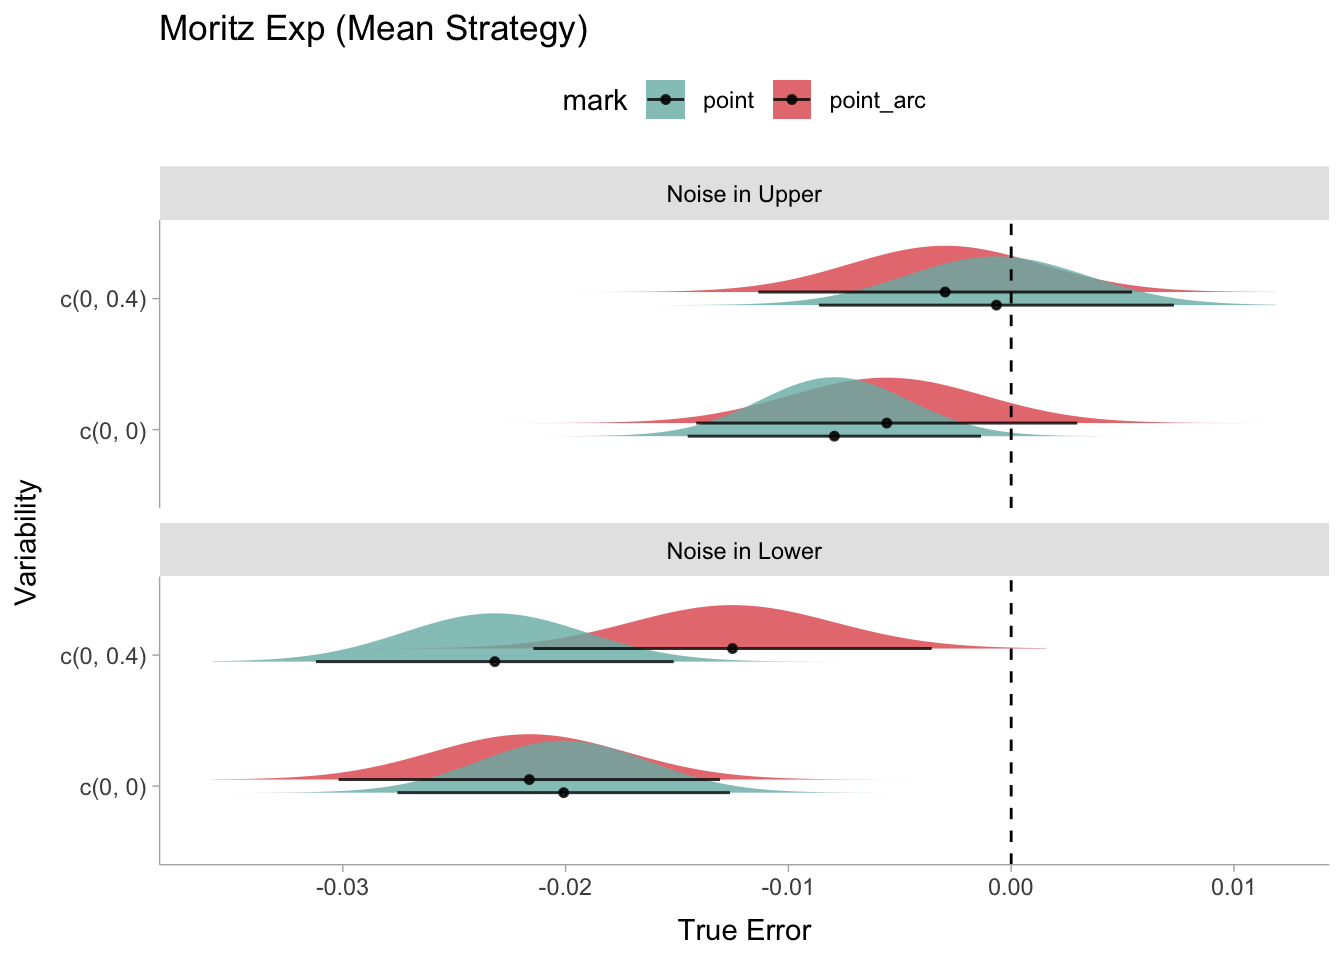
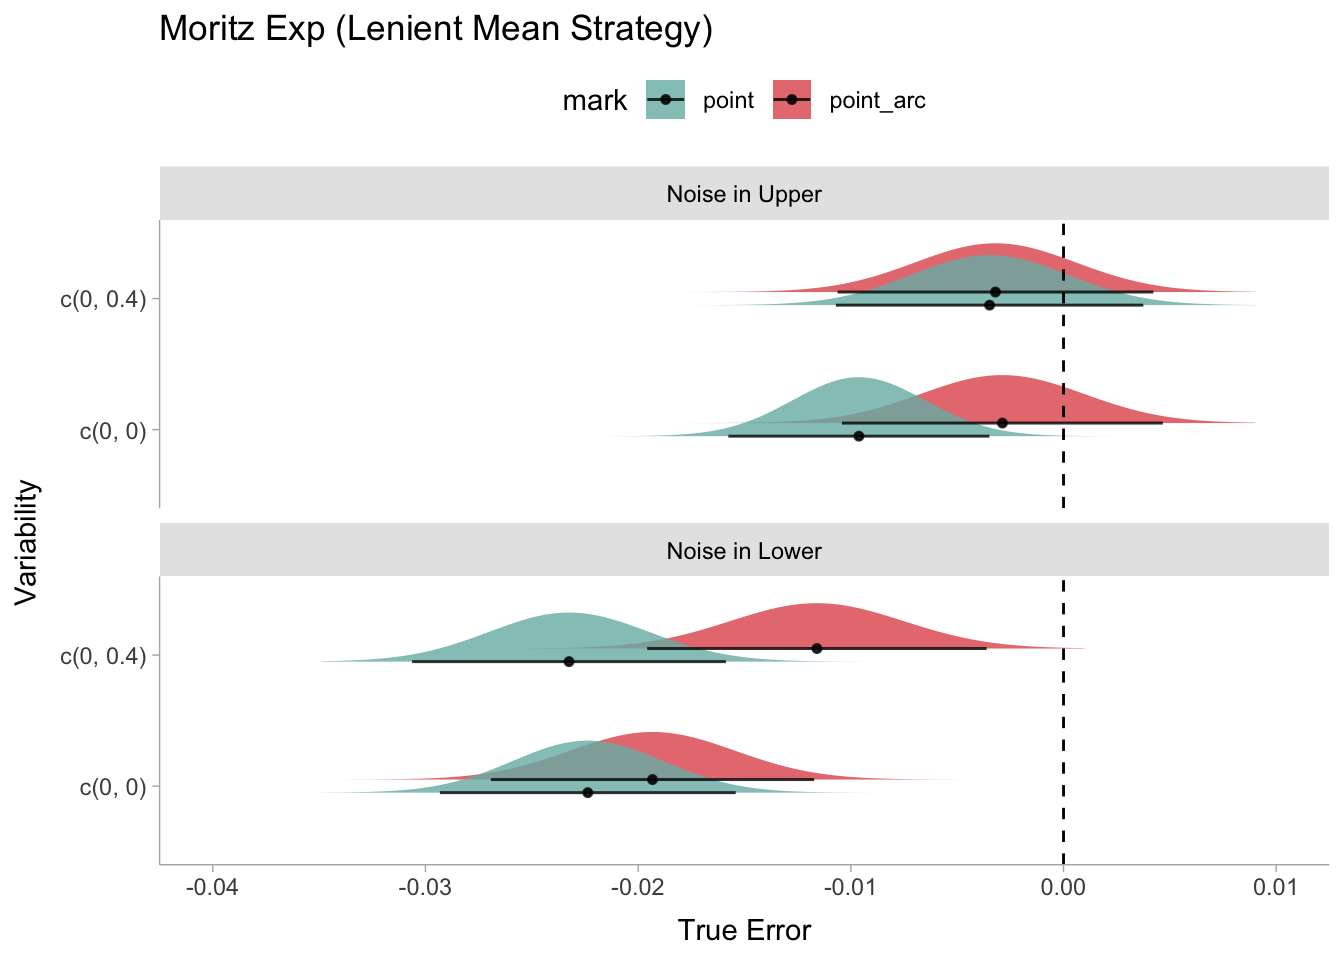
this new weight looks kind of whack but also definitely more variance compared to the mean strategy ...

diff --git a/output/analysis/moritz/reanalyze.html b/output/analysis/moritz/reanalyze.html
@@ -580,11 +580,23 @@ Note
 <span id="cb19-7"><a href="#cb19-7" aria-hidden="true" tabindex="-1"></a>strategy_df <span class="sc">%&gt;%</span></span>
 <span id="cb19-8"><a href="#cb19-8" aria-hidden="true" tabindex="-1"></a>  <span class="fu">filter</span>(r1_number_of_points <span class="sc">==</span> r2_number_of_points) <span class="sc">%&gt;%</span></span>
 <span id="cb19-9"><a href="#cb19-9" aria-hidden="true" tabindex="-1"></a>  <span class="fu">filter</span>(r1_number_of_points <span class="sc">==</span> <span class="cn">TRUE</span>) <span class="sc">%&gt;%</span></span>
-<span id="cb19-10"><a href="#cb19-10" aria-hidden="true" tabindex="-1"></a>  <span class="fu">pull</span>(ResponseId) <span class="ot">-&gt;</span> equal_points_id</span></code></pre></div><button title="Copy to Clipboard" class="code-copy-button"><i class="bi"></i></button></div>
+<span id="cb19-10"><a href="#cb19-10" aria-hidden="true" tabindex="-1"></a>  <span class="fu">pull</span>(ResponseId) <span class="ot">-&gt;</span> equal_points_id</span>
+<span id="cb19-11"><a href="#cb19-11" aria-hidden="true" tabindex="-1"></a></span>
+<span id="cb19-12"><a href="#cb19-12" aria-hidden="true" tabindex="-1"></a><span class="co"># we also want to calculate the case when at least one reviewer thinks that it could be the case, regardless of whether they agree or not</span></span>
+<span id="cb19-13"><a href="#cb19-13" aria-hidden="true" tabindex="-1"></a><span class="co"># 120 participants</span></span>
+<span id="cb19-14"><a href="#cb19-14" aria-hidden="true" tabindex="-1"></a>strategy_df <span class="sc">%&gt;%</span></span>
+<span id="cb19-15"><a href="#cb19-15" aria-hidden="true" tabindex="-1"></a>  <span class="fu">filter</span>(r1_mental_averaging <span class="sc">==</span> <span class="cn">TRUE</span> <span class="sc">|</span> r2_mental_averaging <span class="sc">==</span> <span class="cn">TRUE</span>) <span class="sc">%&gt;%</span></span>
+<span id="cb19-16"><a href="#cb19-16" aria-hidden="true" tabindex="-1"></a>  <span class="fu">pull</span>(ResponseId) <span class="ot">-&gt;</span> lenient_mental_average_id</span>
+<span id="cb19-17"><a href="#cb19-17" aria-hidden="true" tabindex="-1"></a></span>
+<span id="cb19-18"><a href="#cb19-18" aria-hidden="true" tabindex="-1"></a><span class="co"># 53 participants</span></span>
+<span id="cb19-19"><a href="#cb19-19" aria-hidden="true" tabindex="-1"></a>strategy_df <span class="sc">%&gt;%</span></span>
+<span id="cb19-20"><a href="#cb19-20" aria-hidden="true" tabindex="-1"></a>  <span class="fu">filter</span>(r1_number_of_points <span class="sc">==</span> <span class="cn">TRUE</span> <span class="sc">|</span> r2_number_of_points <span class="sc">==</span> <span class="cn">TRUE</span>) <span class="sc">%&gt;%</span></span>
+<span id="cb19-21"><a href="#cb19-21" aria-hidden="true" tabindex="-1"></a>  <span class="fu">pull</span>(ResponseId) <span class="ot">-&gt;</span> lenient_equal_points_id</span></code></pre></div><button title="Copy to Clipboard" class="code-copy-button"><i class="bi"></i></button></div>
 </div>
 <p>I should note that there is also some overlap between those who perform mental averaging and median:</p>
 <div class="cell">
-<div class="code-copy-outer-scaffold"><div class="sourceCode cell-code" id="cb20"><pre class="sourceCode r code-with-copy"><code class="sourceCode r"><span id="cb20-1"><a href="#cb20-1" aria-hidden="true" tabindex="-1"></a><span class="fu">intersect</span>(mental_average_id, equal_points_id)</span></code></pre></div><button title="Copy to Clipboard" class="code-copy-button"><i class="bi"></i></button></div>
+<div class="code-copy-outer-scaffold"><div class="sourceCode cell-code" id="cb20"><pre class="sourceCode r code-with-copy"><code class="sourceCode r"><span id="cb20-1"><a href="#cb20-1" aria-hidden="true" tabindex="-1"></a>i <span class="ot">&lt;-</span> <span class="fu">intersect</span>(mental_average_id, equal_points_id)</span>
+<span id="cb20-2"><a href="#cb20-2" aria-hidden="true" tabindex="-1"></a>i</span></code></pre></div><button title="Copy to Clipboard" class="code-copy-button"><i class="bi"></i></button></div>
 <div class="cell-output cell-output-stdout">
 <pre><code> [1] "30IQTZXKAL63FNW28RHMQ67SI5RX0S" "3180JW2OT5C1FADEOT8XGSV4OFV5J5"
  [3] "31LVTDXBL8AWFNZCOLXDZ8DSM2ZLR9" "32AT8R96GM9BZSMJCOPJG5E7JTVSUC"
@@ -603,11 +615,12 @@ Note
 </section>
 <section id="what-does-the-error-pattern-look-like-for-people-who-use-mean-strategy" class="level2">
 <h2 class="anchored" data-anchor-id="what-does-the-error-pattern-look-like-for-people-who-use-mean-strategy">What does the error pattern look like for people who use <em>MEAN</em> strategy?</h2>
+<p>First we use the lenient way, that is, as long as one rater classifis this as mean, then this counts as mean:</p>
 <div class="cell">
 <details class="code-fold">
 <summary>Code</summary>
 <div class="code-copy-outer-scaffold"><div class="sourceCode cell-code" id="cb22"><pre class="sourceCode r code-with-copy"><code class="sourceCode r"><span id="cb22-1"><a href="#cb22-1" aria-hidden="true" tabindex="-1"></a>error_df <span class="sc">%&gt;%</span></span>
-<span id="cb22-2"><a href="#cb22-2" aria-hidden="true" tabindex="-1"></a>  <span class="fu">filter</span>(assignmentid <span class="sc">%in%</span> mental_average_id) <span class="sc">%&gt;%</span></span>
+<span id="cb22-2"><a href="#cb22-2" aria-hidden="true" tabindex="-1"></a>  <span class="fu">filter</span>(assignmentid <span class="sc">%in%</span> lenient_mental_average_id) <span class="sc">%&gt;%</span></span>
 <span id="cb22-3"><a href="#cb22-3" aria-hidden="true" tabindex="-1"></a>  <span class="fu">summarySEwithin</span>(</span>
 <span id="cb22-4"><a href="#cb22-4" aria-hidden="true" tabindex="-1"></a>    .,</span>
 <span id="cb22-5"><a href="#cb22-5" aria-hidden="true" tabindex="-1"></a>    <span class="at">measurevar =</span> <span class="st">"error_mean"</span>,</span>
@@ -622,7 +635,8 @@ Note
 <span id="cb22-14"><a href="#cb22-14" aria-hidden="true" tabindex="-1"></a>  <span class="fu">plot_results</span>(., error_mean) <span class="sc">+</span></span>
 <span id="cb22-15"><a href="#cb22-15" aria-hidden="true" tabindex="-1"></a>  <span class="fu">geom_vline</span>(<span class="at">xintercept =</span> <span class="dv">0</span>, <span class="at">linetype =</span> <span class="st">"dashed"</span>) <span class="sc">+</span></span>
 <span id="cb22-16"><a href="#cb22-16" aria-hidden="true" tabindex="-1"></a>  <span class="fu">facet_wrap</span>(<span class="sc">~</span>flip_lab, <span class="at">ncol =</span> <span class="dv">1</span>) <span class="sc">+</span></span>
-<span id="cb22-17"><a href="#cb22-17" aria-hidden="true" tabindex="-1"></a>  <span class="fu">labs</span>(<span class="at">x =</span> <span class="st">"True Error"</span>, <span class="at">title =</span> <span class="st">"Moritz Exp (Mean Strategy)"</span>)</span></code></pre></div><button title="Copy to Clipboard" class="code-copy-button"><i class="bi"></i></button></div>
+<span id="cb22-17"><a href="#cb22-17" aria-hidden="true" tabindex="-1"></a>  <span class="fu">labs</span>(<span class="at">x =</span> <span class="st">"True Error"</span>, <span class="at">title =</span> <span class="st">"Moritz Exp (Lenient Mean Strategy)"</span>) <span class="sc">+</span></span>
+<span id="cb22-18"><a href="#cb22-18" aria-hidden="true" tabindex="-1"></a>  <span class="fu">coord_cartesian</span>(<span class="at">xlim =</span> <span class="fu">c</span>(<span class="sc">-</span><span class="fl">0.04</span>, <span class="fl">0.01</span>))</span></code></pre></div><button title="Copy to Clipboard" class="code-copy-button"><i class="bi"></i></button></div>
 </details>
 <div class="cell-output-display">
 <div>
@@ -632,14 +646,12 @@ Note
 </div>
 </div>
 </div>
-</section>
-<section id="what-does-the-error-pattern-look-like-for-people-who-use-median-strategy" class="level2">
-<h2 class="anchored" data-anchor-id="what-does-the-error-pattern-look-like-for-people-who-use-median-strategy">What does the error pattern look like for people who use <em>MEDIAN</em> strategy?</h2>
+<p>Then we use the strict way, that is, both rater agree that it’s only mental averaging and not median:</p>
 <div class="cell">
 <details class="code-fold">
 <summary>Code</summary>
 <div class="code-copy-outer-scaffold"><div class="sourceCode cell-code" id="cb23"><pre class="sourceCode r code-with-copy"><code class="sourceCode r"><span id="cb23-1"><a href="#cb23-1" aria-hidden="true" tabindex="-1"></a>error_df <span class="sc">%&gt;%</span></span>
-<span id="cb23-2"><a href="#cb23-2" aria-hidden="true" tabindex="-1"></a>  <span class="fu">filter</span>(assignmentid <span class="sc">%in%</span> equal_points_id) <span class="sc">%&gt;%</span></span>
+<span id="cb23-2"><a href="#cb23-2" aria-hidden="true" tabindex="-1"></a>  <span class="fu">filter</span>(assignmentid <span class="sc">%in%</span> <span class="fu">setdiff</span>(mental_average_id, i)) <span class="sc">%&gt;%</span></span>
 <span id="cb23-3"><a href="#cb23-3" aria-hidden="true" tabindex="-1"></a>  <span class="fu">summarySEwithin</span>(</span>
 <span id="cb23-4"><a href="#cb23-4" aria-hidden="true" tabindex="-1"></a>    .,</span>
 <span id="cb23-5"><a href="#cb23-5" aria-hidden="true" tabindex="-1"></a>    <span class="at">measurevar =</span> <span class="st">"error_mean"</span>,</span>
@@ -654,12 +666,78 @@ Note
 <span id="cb23-14"><a href="#cb23-14" aria-hidden="true" tabindex="-1"></a>  <span class="fu">plot_results</span>(., error_mean) <span class="sc">+</span></span>
 <span id="cb23-15"><a href="#cb23-15" aria-hidden="true" tabindex="-1"></a>  <span class="fu">geom_vline</span>(<span class="at">xintercept =</span> <span class="dv">0</span>, <span class="at">linetype =</span> <span class="st">"dashed"</span>) <span class="sc">+</span></span>
 <span id="cb23-16"><a href="#cb23-16" aria-hidden="true" tabindex="-1"></a>  <span class="fu">facet_wrap</span>(<span class="sc">~</span>flip_lab, <span class="at">ncol =</span> <span class="dv">1</span>) <span class="sc">+</span></span>
-<span id="cb23-17"><a href="#cb23-17" aria-hidden="true" tabindex="-1"></a>  <span class="fu">labs</span>(<span class="at">x =</span> <span class="st">"True Error"</span>, <span class="at">title =</span> <span class="st">"Moritz Exp (Median Strategy)"</span>)</span></code></pre></div><button title="Copy to Clipboard" class="code-copy-button"><i class="bi"></i></button></div>
+<span id="cb23-17"><a href="#cb23-17" aria-hidden="true" tabindex="-1"></a>  <span class="fu">labs</span>(<span class="at">x =</span> <span class="st">"True Error"</span>, <span class="at">title =</span> <span class="st">"Moritz Exp (Only Mean Strategy)"</span>) <span class="sc">+</span></span>
+<span id="cb23-18"><a href="#cb23-18" aria-hidden="true" tabindex="-1"></a>  <span class="fu">coord_cartesian</span>(<span class="at">xlim =</span> <span class="fu">c</span>(<span class="sc">-</span><span class="fl">0.04</span>, <span class="fl">0.01</span>))</span></code></pre></div><button title="Copy to Clipboard" class="code-copy-button"><i class="bi"></i></button></div>
 </details>
 <div class="cell-output-display">
 <div>
 <figure class="figure">
 <p><img src="reanalyze_files/figure-html/unnamed-chunk-18-1.png" class="img-fluid figure-img" width="672"></p>
+</figure>
+</div>
+</div>
+</div>
+</section>
+<section id="what-does-the-error-pattern-look-like-for-people-who-use-median-strategy" class="level2">
+<h2 class="anchored" data-anchor-id="what-does-the-error-pattern-look-like-for-people-who-use-median-strategy">What does the error pattern look like for people who use <em>MEDIAN</em> strategy?</h2>
+<p>Similarly, this is the lenient way:</p>
+<div class="cell">
+<details class="code-fold">
+<summary>Code</summary>
+<div class="code-copy-outer-scaffold"><div class="sourceCode cell-code" id="cb24"><pre class="sourceCode r code-with-copy"><code class="sourceCode r"><span id="cb24-1"><a href="#cb24-1" aria-hidden="true" tabindex="-1"></a>error_df <span class="sc">%&gt;%</span></span>
+<span id="cb24-2"><a href="#cb24-2" aria-hidden="true" tabindex="-1"></a>  <span class="fu">filter</span>(assignmentid <span class="sc">%in%</span> lenient_equal_points_id) <span class="sc">%&gt;%</span></span>
+<span id="cb24-3"><a href="#cb24-3" aria-hidden="true" tabindex="-1"></a>  <span class="fu">summarySEwithin</span>(</span>
+<span id="cb24-4"><a href="#cb24-4" aria-hidden="true" tabindex="-1"></a>    .,</span>
+<span id="cb24-5"><a href="#cb24-5" aria-hidden="true" tabindex="-1"></a>    <span class="at">measurevar =</span> <span class="st">"error_mean"</span>,</span>
+<span id="cb24-6"><a href="#cb24-6" aria-hidden="true" tabindex="-1"></a>    <span class="at">withinvars =</span> <span class="fu">c</span>(<span class="st">"variability"</span>, <span class="st">"flip"</span>),</span>
+<span id="cb24-7"><a href="#cb24-7" aria-hidden="true" tabindex="-1"></a>    <span class="at">betweenvars =</span> <span class="st">"mark"</span>,</span>
+<span id="cb24-8"><a href="#cb24-8" aria-hidden="true" tabindex="-1"></a>    <span class="at">idvar =</span> <span class="st">"assignmentid"</span></span>
+<span id="cb24-9"><a href="#cb24-9" aria-hidden="true" tabindex="-1"></a>  ) <span class="sc">%&gt;%</span></span>
+<span id="cb24-10"><a href="#cb24-10" aria-hidden="true" tabindex="-1"></a>  <span class="fu">mutate</span>(</span>
+<span id="cb24-11"><a href="#cb24-11" aria-hidden="true" tabindex="-1"></a>    <span class="at">flip_lab =</span> <span class="fu">ifelse</span>(flip <span class="sc">==</span> <span class="cn">FALSE</span>, <span class="st">"Noise in Upper"</span>, <span class="st">"Noise in Lower"</span>),</span>
+<span id="cb24-12"><a href="#cb24-12" aria-hidden="true" tabindex="-1"></a>    <span class="at">flip_lab =</span> <span class="fu">factor</span>(flip_lab, <span class="at">levels =</span> <span class="fu">c</span>(<span class="st">"Noise in Upper"</span>, <span class="st">"Noise in Lower"</span>))</span>
+<span id="cb24-13"><a href="#cb24-13" aria-hidden="true" tabindex="-1"></a>  ) <span class="sc">%&gt;%</span></span>
+<span id="cb24-14"><a href="#cb24-14" aria-hidden="true" tabindex="-1"></a>  <span class="fu">plot_results</span>(., error_mean) <span class="sc">+</span></span>
+<span id="cb24-15"><a href="#cb24-15" aria-hidden="true" tabindex="-1"></a>  <span class="fu">geom_vline</span>(<span class="at">xintercept =</span> <span class="dv">0</span>, <span class="at">linetype =</span> <span class="st">"dashed"</span>) <span class="sc">+</span></span>
+<span id="cb24-16"><a href="#cb24-16" aria-hidden="true" tabindex="-1"></a>  <span class="fu">facet_wrap</span>(<span class="sc">~</span>flip_lab, <span class="at">ncol =</span> <span class="dv">1</span>) <span class="sc">+</span></span>
+<span id="cb24-17"><a href="#cb24-17" aria-hidden="true" tabindex="-1"></a>  <span class="fu">labs</span>(<span class="at">x =</span> <span class="st">"True Error"</span>, <span class="at">title =</span> <span class="st">"Moritz Exp (Lenient Median Strategy)"</span>) <span class="sc">+</span></span>
+<span id="cb24-18"><a href="#cb24-18" aria-hidden="true" tabindex="-1"></a>  <span class="fu">coord_cartesian</span>(<span class="at">xlim =</span> <span class="fu">c</span>(<span class="sc">-</span><span class="fl">0.04</span>, <span class="fl">0.05</span>))</span></code></pre></div><button title="Copy to Clipboard" class="code-copy-button"><i class="bi"></i></button></div>
+</details>
+<div class="cell-output-display">
+<div>
+<figure class="figure">
+<p><img src="reanalyze_files/figure-html/unnamed-chunk-19-1.png" class="img-fluid figure-img" width="672"></p>
+</figure>
+</div>
+</div>
+</div>
+<p>And this is the strict way:</p>
+<div class="cell">
+<details class="code-fold">
+<summary>Code</summary>
+<div class="code-copy-outer-scaffold"><div class="sourceCode cell-code" id="cb25"><pre class="sourceCode r code-with-copy"><code class="sourceCode r"><span id="cb25-1"><a href="#cb25-1" aria-hidden="true" tabindex="-1"></a>error_df <span class="sc">%&gt;%</span></span>
+<span id="cb25-2"><a href="#cb25-2" aria-hidden="true" tabindex="-1"></a>  <span class="fu">filter</span>(assignmentid <span class="sc">%in%</span> <span class="fu">setdiff</span>(equal_points_id, i)) <span class="sc">%&gt;%</span></span>
+<span id="cb25-3"><a href="#cb25-3" aria-hidden="true" tabindex="-1"></a>  <span class="fu">summarySEwithin</span>(</span>
+<span id="cb25-4"><a href="#cb25-4" aria-hidden="true" tabindex="-1"></a>    .,</span>
+<span id="cb25-5"><a href="#cb25-5" aria-hidden="true" tabindex="-1"></a>    <span class="at">measurevar =</span> <span class="st">"error_mean"</span>,</span>
+<span id="cb25-6"><a href="#cb25-6" aria-hidden="true" tabindex="-1"></a>    <span class="at">withinvars =</span> <span class="fu">c</span>(<span class="st">"variability"</span>, <span class="st">"flip"</span>),</span>
+<span id="cb25-7"><a href="#cb25-7" aria-hidden="true" tabindex="-1"></a>    <span class="at">betweenvars =</span> <span class="st">"mark"</span>,</span>
+<span id="cb25-8"><a href="#cb25-8" aria-hidden="true" tabindex="-1"></a>    <span class="at">idvar =</span> <span class="st">"assignmentid"</span></span>
+<span id="cb25-9"><a href="#cb25-9" aria-hidden="true" tabindex="-1"></a>  ) <span class="sc">%&gt;%</span></span>
+<span id="cb25-10"><a href="#cb25-10" aria-hidden="true" tabindex="-1"></a>  <span class="fu">mutate</span>(</span>
+<span id="cb25-11"><a href="#cb25-11" aria-hidden="true" tabindex="-1"></a>    <span class="at">flip_lab =</span> <span class="fu">ifelse</span>(flip <span class="sc">==</span> <span class="cn">FALSE</span>, <span class="st">"Noise in Upper"</span>, <span class="st">"Noise in Lower"</span>),</span>
+<span id="cb25-12"><a href="#cb25-12" aria-hidden="true" tabindex="-1"></a>    <span class="at">flip_lab =</span> <span class="fu">factor</span>(flip_lab, <span class="at">levels =</span> <span class="fu">c</span>(<span class="st">"Noise in Upper"</span>, <span class="st">"Noise in Lower"</span>))</span>
+<span id="cb25-13"><a href="#cb25-13" aria-hidden="true" tabindex="-1"></a>  ) <span class="sc">%&gt;%</span></span>
+<span id="cb25-14"><a href="#cb25-14" aria-hidden="true" tabindex="-1"></a>  <span class="fu">plot_results</span>(., error_mean) <span class="sc">+</span></span>
+<span id="cb25-15"><a href="#cb25-15" aria-hidden="true" tabindex="-1"></a>  <span class="fu">geom_vline</span>(<span class="at">xintercept =</span> <span class="dv">0</span>, <span class="at">linetype =</span> <span class="st">"dashed"</span>) <span class="sc">+</span></span>
+<span id="cb25-16"><a href="#cb25-16" aria-hidden="true" tabindex="-1"></a>  <span class="fu">facet_wrap</span>(<span class="sc">~</span>flip_lab, <span class="at">ncol =</span> <span class="dv">1</span>) <span class="sc">+</span></span>
+<span id="cb25-17"><a href="#cb25-17" aria-hidden="true" tabindex="-1"></a>  <span class="fu">labs</span>(<span class="at">x =</span> <span class="st">"True Error"</span>, <span class="at">title =</span> <span class="st">"Moritz Exp (Only Median Strategy)"</span>) <span class="sc">+</span></span>
+<span id="cb25-18"><a href="#cb25-18" aria-hidden="true" tabindex="-1"></a>  <span class="fu">coord_cartesian</span>(<span class="at">xlim =</span> <span class="fu">c</span>(<span class="sc">-</span><span class="fl">0.04</span>, <span class="fl">0.05</span>))</span></code></pre></div><button title="Copy to Clipboard" class="code-copy-button"><i class="bi"></i></button></div>
+</details>
+<div class="cell-output-display">
+<div>
+<figure class="figure">
+<p><img src="reanalyze_files/figure-html/unnamed-chunk-20-1.png" class="img-fluid figure-img" width="672"></p>
 </figure>
 </div>
 </div>
